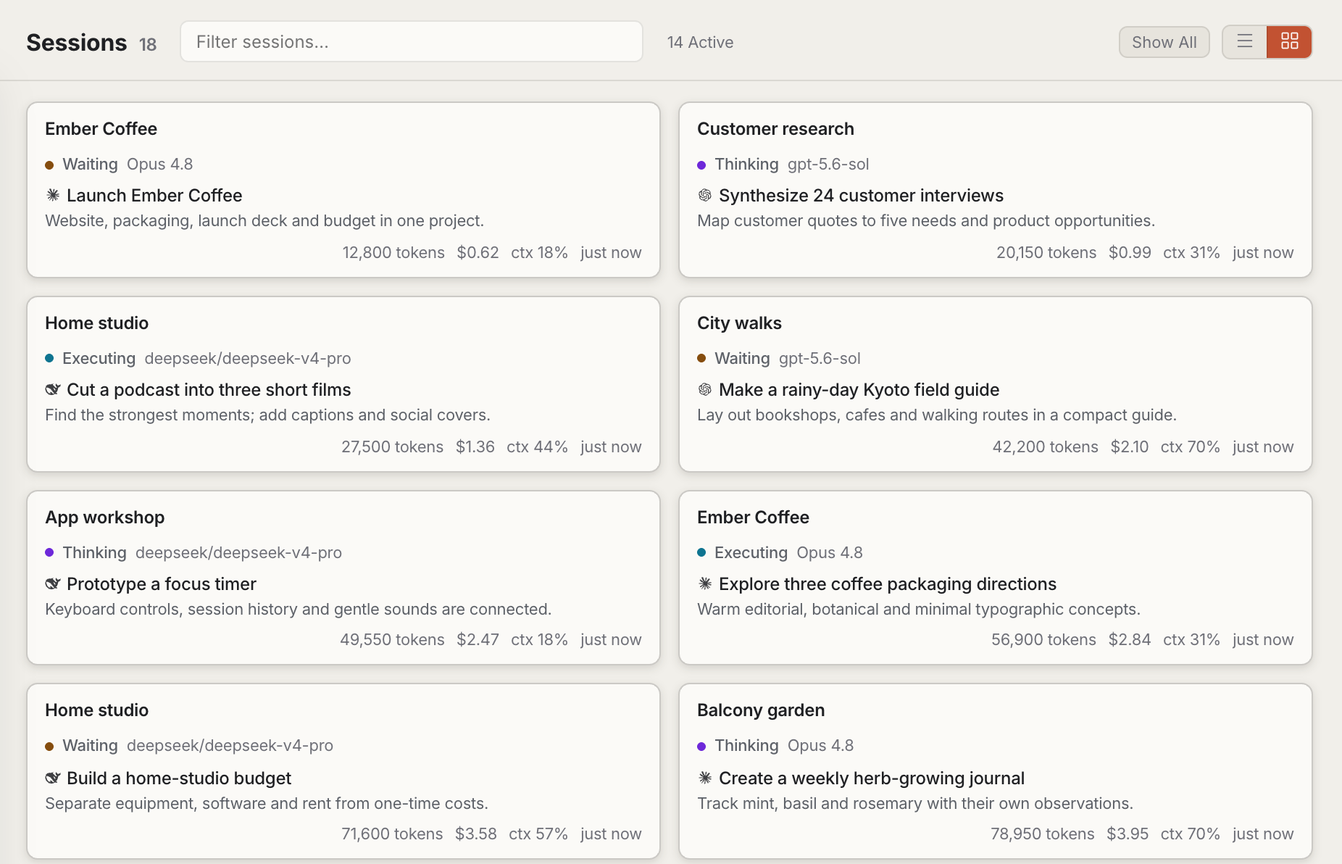
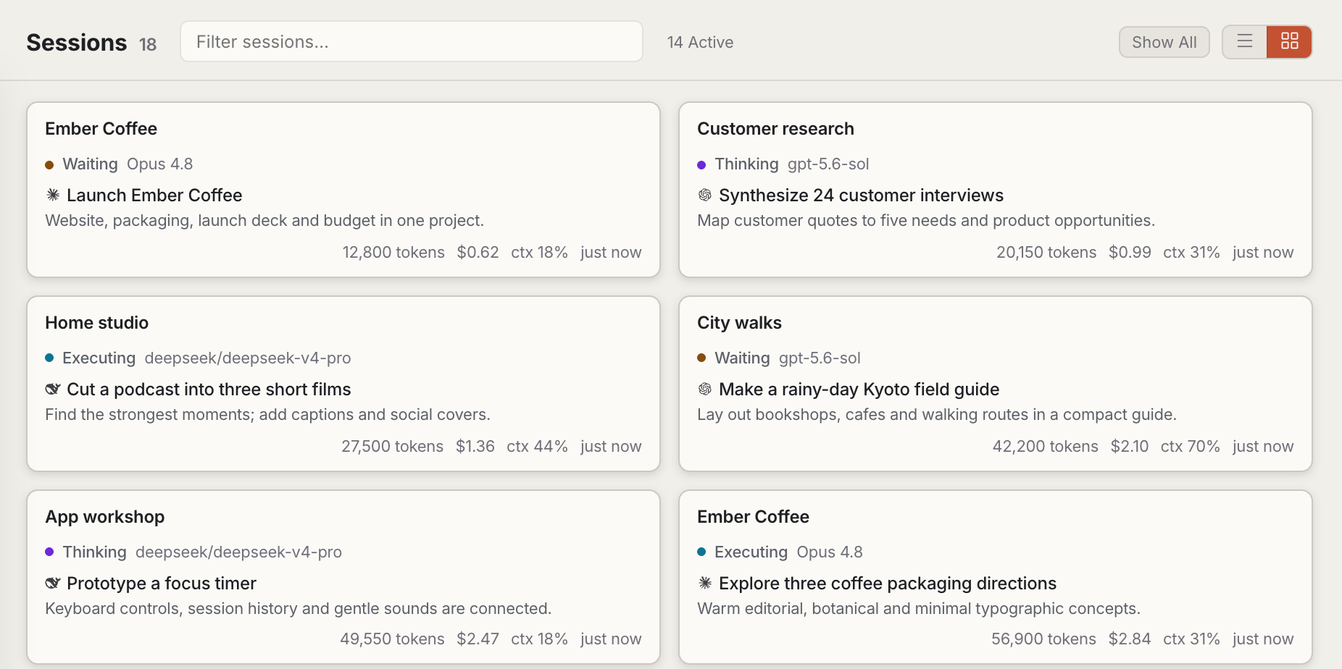
site: 多个 AI 协作区块嵌入实机会话看板截图 + 手机端可横向滚动看清；verify 与文档同步

Changed region(s): [[0.0, 0.0303, 0.9849, 1.0]]

diff --git a/docs/index.html b/docs/index.html
@@ -5,7 +5,7 @@
 <title>Claw Fleet — Your personal AI workspace</title><meta name="description" content="Give AI the work, review the decisions, and take the results. A personal workspace for Claude Code, Codex and dsh (DeepSeek Harness), with projects, deliverables and mobile access.">
 <meta name="color-scheme" content="light"><meta property="og:title" content="Claw Fleet — Your personal AI workspace"><meta property="og:description" content="Give AI the work, review the decisions, and take the results. A personal workspace for Claude Code, Codex and dsh (DeepSeek Harness), with projects, deliverables and mobile access."><meta property="og:type" content="website"><meta property="og:image" content="https://hoveychen.github.io/claw-fleet/screenshots/current/work-en.png"><meta name="twitter:card" content="summary_large_image">
 <link rel="alternate" hreflang="en" href="./index.html"><link rel="alternate" hreflang="zh-CN" href="./zh/index.html"><link rel="alternate" hreflang="x-default" href="./index.html">
-<script src="./locale.js?v=c25a591a310a"></script><link rel="icon" href="./icon.png"><link rel="stylesheet" href="./site.css?v=d9cd3329baa2"><script src="./site.js?v=a815573eef97" defer></script>
+<script src="./locale.js?v=c25a591a310a"></script><link rel="icon" href="./icon.png"><link rel="stylesheet" href="./site.css?v=efb872f94823"><script src="./site.js?v=a815573eef97" defer></script>
 </head>
 <body data-locale="en">
 <a class="skip" href="#main">Skip to content</a>
@@ -17,14 +17,14 @@
 <div id="panel-0" class="demo-panel">
 <div class="product-stage stage-0"><div class="product-window"><a class="screenshot-open" href="./screenshots/current/work-en.png?v=c096162589e0" target="_blank" aria-label="Open full-size screenshot"><img src="./screenshots/current/work-en.png?v=c096162589e0" width="1288" height="842" fetchpriority="high" alt="Start with a task. Or just a conversation."></a></div></div>
 <div class="panel-caption"><h3>Start with a task. Or just a conversation.</h3><p>Choose a project and an AI tool. Add the context, give it a direction, and come back to the same workspace to continue.</p></div></div><div id="panel-1" class="demo-panel">
-<div class="product-stage stage-1"><div class="product-window"><a class="screenshot-open" href="./screenshots/current/review-en.png?v=c853286714ae" target="_blank" aria-label="Open full-size screenshot"><img src="./screenshots/current/review-en.png?v=c853286714ae" width="2512" height="1152" loading="lazy" alt="The material belongs beside the decision."></a></div></div>
+<div class="product-stage stage-1"><div class="product-window"><a class="screenshot-open" href="./screenshots/current/review-en.png?v=e23a6caacb9f" target="_blank" aria-label="Open full-size screenshot"><img src="./screenshots/current/review-en.png?v=e23a6caacb9f" width="2512" height="1152" loading="lazy" alt="The material belongs beside the decision."></a></div></div>
 <div class="panel-caption"><h3>The material belongs beside the decision.</h3><p>Look at a proposal, image or document, then give the task its next direction. Questions and answers stay connected to the work.</p></div></div><div id="panel-2" class="demo-panel">
-<div class="product-stage stage-2"><div class="product-window"><a class="screenshot-open" href="./screenshots/current/results-en.png?v=933991cd240a" target="_blank" aria-label="Open full-size screenshot"><img src="./screenshots/current/results-en.png?v=933991cd240a" width="1852" height="1380" loading="lazy" alt="A result you can open, keep and share."></a></div></div>
+<div class="product-stage stage-2"><div class="product-window"><a class="screenshot-open" href="./screenshots/current/results-en.png?v=a017a2147ac9" target="_blank" aria-label="Open full-size screenshot"><img src="./screenshots/current/results-en.png?v=a017a2147ac9" width="1852" height="1380" loading="lazy" alt="A result you can open, keep and share."></a></div></div>
 <div class="panel-caption"><h3>A result you can open, keep and share.</h3><p>Browse deliverables by project. Preview documents and media, add a note, save a favorite, or export the file.</p></div></div><p class="mobile-sample">Current interface · Illustrative data</p>
 </section>
 <section class="overview wrap"><div class="section-heading"><h2>Keep the whole<br>piece of work together.</h2><p>The project, the conversation, the next decision, and what came out of it.</p></div><div class="feature-columns"><article><h3>Add a thought. Keep moving.</h3><p>Send a follow-up while a Fleet task runs, or continue the conversation once it stops. Your work stays with the project.</p></article><article><h3>Make an informed call.</h3><p>Review the material an agent brings back: a proposal, an image, a document. Choose a direction without reconstructing the whole conversation.</p></article><article><h3>Put the result to use.</h3><p>Open a deliverable, export it, and return to it later. Keep reusable conclusions in a versioned project wiki.</p></article></div></section>
-<section class="harness wrap" id="harness"><div class="section-heading"><h2>One piece of work.<br>More than one agent.</h2><p>Planning, implementation and review don’t have to run on the same tool. You decide who takes which step.</p></div><div class="relay"><div class="relay-lane"><div class="relay-node"><strong>Claude Code</strong><span>breaks down the plan</span></div><span class="relay-arrow" aria-hidden="true">→</span><div class="relay-node"><strong>dsh (DeepSeek Harness)</strong><span>works through it</span></div><span class="relay-arrow" aria-hidden="true">→</span><div class="relay-node"><strong>Codex</strong><span>reviews and wraps up</span></div></div><p class="relay-note">The split is only an example. Every task picks its own tool and model; name another tool’s model in a handoff and the next session runs there.</p></div><div class="feature-columns"><article><h3>A tool per task.</h3><p>Choose the agent tool when you brief the task, then pick a model from that tool’s own catalogue. When several are running, the session list shows which tool each task is on.</p></article><article><h3>A handoff carries more than a note.</h3><p>The workspace, the plan and its current step, and the notes the previous session left behind all travel to the next one. Whoever picks it up doesn’t rebuild the context.</p></article><article><h3>The record belongs to the work.</h3><p>Plans, the project wiki, deliverables and notes live in Fleet, not inside one tool. What Claude Code writes down, Codex and dsh can read back.</p></article></div></section>
-<section class="mobile-section wrap" id="mobile"><div class="mobile-art"><div class="phone"><img src="./screenshots/current/mobile-en.png?v=418e19f96ac1" width="860" height="1480" loading="lazy" alt="Fleet mobile review with a launch decision and two concrete options"></div><p>Current mobile interface · Illustrative data</p></div><div class="mobile-copy"><h2>Away from your desk.<br>Still part of the work.</h2><p>An idea doesn’t have to wait until you get home. Start a task from your phone, choose the project and device, and come back when a decision needs you.</p><ul><li>Type a brief, or edit a voice transcription.</li><li>See tasks and decisions from paired devices together.</li><li>Preview, download or share supported deliverables.</li></ul><a class="text-link" href="#getting-started">How to connect your phone <span aria-hidden="true">↗</span></a></div></section>
+<section class="harness wrap" id="harness"><div class="section-heading"><h2>One piece of work.<br>More than one agent.</h2><p>Planning, implementation and review don’t have to run on the same tool. You decide who takes which step.</p></div><div class="relay"><div class="relay-lane"><div class="relay-node"><strong>Claude Code</strong><span>breaks down the plan</span></div><span class="relay-arrow" aria-hidden="true">→</span><div class="relay-node"><strong>dsh (DeepSeek Harness)</strong><span>works through it</span></div><span class="relay-arrow" aria-hidden="true">→</span><div class="relay-node"><strong>Codex</strong><span>reviews and wraps up</span></div></div><p class="relay-note">The split is only an example. Every task picks its own tool and model; name another tool’s model in a handoff and the next session runs there.</p></div><div class="product-stage harness-stage"><div class="product-window"><a class="screenshot-open" href="./screenshots/current/agents-en.png?v=1adfc95fa004" target="_blank" aria-label="Open full-size screenshot"><img src="./screenshots/current/agents-en.png?v=1adfc95fa004" width="1852" height="924" loading="lazy" alt="Fleet session board with Claude Code, Codex and dsh tasks running side by side, each card labelled with its tool and model"></a></div></div><p class="harness-sample">Current interface · Illustrative data</p><div class="feature-columns"><article><h3>A tool per task.</h3><p>Choose the agent tool when you brief the task, then pick a model from that tool’s own catalogue. When several are running, the session list shows which tool each task is on.</p></article><article><h3>A handoff carries more than a note.</h3><p>The workspace, the plan and its current step, and the notes the previous session left behind all travel to the next one. Whoever picks it up doesn’t rebuild the context.</p></article><article><h3>The record belongs to the work.</h3><p>Plans, the project wiki, deliverables and notes live in Fleet, not inside one tool. What Claude Code writes down, Codex and dsh can read back.</p></article></div></section>
+<section class="mobile-section wrap" id="mobile"><div class="mobile-art"><div class="phone"><img src="./screenshots/current/mobile-en.png?v=366aec209c2e" width="860" height="1480" loading="lazy" alt="Fleet mobile review with a launch decision and two concrete options"></div><p>Current mobile interface · Illustrative data</p></div><div class="mobile-copy"><h2>Away from your desk.<br>Still part of the work.</h2><p>An idea doesn’t have to wait until you get home. Start a task from your phone, choose the project and device, and come back when a decision needs you.</p><ul><li>Type a brief, or edit a voice transcription.</li><li>See tasks and decisions from paired devices together.</li><li>Preview, download or share supported deliverables.</li></ul><a class="text-link" href="#getting-started">How to connect your phone <span aria-hidden="true">↗</span></a></div></section>
 <section class="work-depth wrap"><div class="section-heading"><h2>Give the next step<br>somewhere to go.</h2><p>For the work that takes more than a conversation.</p></div><div class="depth-list"><article><h3>Projects, not loose threads</h3><p>Keep tasks with their workspace. Reach project files, Git and a terminal when you need to look closer.</p></article><article><h3>Knowledge you can reuse</h3><p>Find a previous report, check its version and reference it in the next task.</p></article><article><h3>Work that can continue</h3><p>Use plans and handoff briefs for longer tasks. Schedule recurring work, or wait for a condition before continuing.</p></article></div><div class="source-strip"><p>Claude Code, Codex, and dsh (DeepSeek Harness)</p><span>Choose the tools and models you already use. dsh can connect to configured model providers. Each tool keeps its own account and access requirements.</span></div></section>
 <section class="capabilities wrap" id="capabilities"><div class="capabilities-heading"><div><h2>More of the workspace.</h2><p>54 capabilities, grouped by how you use them. Open a section when you need it.</p></div><button class="catalogue-toggle" data-expand="Expand all" data-collapse="Collapse all" aria-expanded="false">Expand all</button></div><div class="capability-list"><details class="capability-group"><summary><h3>Start and continue</h3><span>6 capabilities</span></summary><ul><li><h4>Three agent tools</h4><p>Use Claude Code, Codex and dsh (DeepSeek Harness) in one workspace.</p></li><li><h4>Model and reasoning controls</h4><p>Choose an available model, reasoning effort and permission mode.</p></li><li><h4>File and image context</h4><p>Attach source material and reference images to a brief.</p></li><li><h4>Follow-ups while work runs</h4><p>Add another instruction without waiting for the task to finish.</p></li><li><h4>Task tabs</h4><p>Move between tasks while keeping each conversation in place.</p></li><li><h4>Cross-session search</h4><p>Find previous work by title, plan or conversation text.</p></li></ul></details><details class="capability-group"><summary><h3>More than one agent</h3><span>6 capabilities</span></summary><ul><li><h4>A tool per task</h4><p>Pick Claude Code, Codex or dsh when you brief a task, then a model from that tool.</p></li><li><h4>Handoff across tools</h4><p>Name another tool&#x27;s model in a handoff and the next session runs there.</p></li><li><h4>The plan travels</h4><p>A handoff can carry the plan and the step it stopped on.</p></li><li><h4>Notes along the chain</h4><p>A successor session can read the notes its predecessors left behind.</p></li><li><h4>Shared wiki and deliverables</h4><p>A report one tool publishes is what the next tool reads back.</p></li><li><h4>Mixed sessions stay legible</h4><p>When several tools are running, the session list marks which one each task is on.</p></li></ul></details><details class="capability-group"><summary><h3>See the work as it happens</h3><span>6 capabilities</span></summary><ul><li><h4>List and gallery views</h4><p>See multiple sessions and their current states together.</p></li><li><h4>Live activity</h4><p>Distinguish thinking, tool execution, output and waiting for input.</p></li><li><h4>Full conversation timeline</h4><p>Inspect thinking, tool calls and code changes.</p></li><li><h4>Subagents and workflows</h4><p>Follow parent sessions, subagent work and workflow relationships.</p></li><li><h4>Interrupt and stop</h4><p>Take control of a stuck or no-longer-needed session.</p></li><li><h4>Session organization</h4><p>Rename, mark and filter sessions to keep useful work easy to find.</p></li></ul></details><details class="capability-group"><summary><h3>Keep a person in the loop</h3><span>6 capabilities</span></summary><ul><li><h4>One decision queue</h4><p>Handle questions, permissions and plan approvals together.</p></li><li><h4>Materials beside the decision</h4><p>Review documents, images and HTML previews alongside a decision.</p></li><li><h4>Options and structured forms</h4><p>Use single choice, multiple choice, free text and form fields.</p></li><li><h4>Pre-execution guard</h4><p>Review risk analysis before supported commands run.</p></li><li><h4>Editable plan approval</h4><p>Read and edit a proposed plan before approving it.</p></li><li><h4>Decision history</h4><p>Keep questions, choices and feedback for later review.</p></li></ul></details><details class="capability-group"><summary><h3>Keep longer work moving</h3><span>6 capabilities</span></summary><ul><li><h4>Durable plans and task trees</h4><p>Track phases and keep the plan with the work.</p></li><li><h4>Context handoffs</h4><p>Start a successor session with a handoff brief.</p></li><li><h4>Visible handoff chains</h4><p>Trace the sessions that carried a piece of work forward.</p></li><li><h4>One-time schedules</h4><p>Start a task at a specified time.</p></li><li><h4>Recurring tasks</h4><p>Repeat checks or routine work on a schedule.</p></li><li><h4>Condition-based runs</h4><p>Wait for an event and run the agent only when the condition is met.</p></li></ul></details><details class="capability-group"><summary><h3>Keep the output and the knowledge</h3><span>6 capabilities</span></summary><ul><li><h4>Multi-format previews</h4><p>Preview PDFs, Office files, images, video and web documents.</p></li><li><h4>Export deliverables</h4><p>Download finished files or hand them to someone else.</p></li><li><h4>Favorites, notes and project filters</h4><p>Organize deliverables without relying on filenames alone.</p></li><li><h4>Project wiki publishing</h4><p>Keep reusable HTML reports and Markdown documents.</p></li><li><h4>Wiki search and cross-links</h4><p>Search full text and reference conclusions across documents and sessions.</p></li><li><h4>Document version history</h4><p>Update a document while keeping earlier versions available.</p></li></ul></details><details class="capability-group"><summary><h3>Connect projects and devices</h3><span>6 capabilities</span></summary><ul><li><h4>File explorer</h4><p>Browse project files, images and source code.</p></li><li><h4>Git status and diffs</h4><p>Inspect changes and pull or push from the interface.</p></li><li><h4>Terminal and processes</h4><p>Run commands and inspect terminal output and process state.</p></li><li><h4>SSH workspaces</h4><p>Connect projects and agent environments on another machine.</p></li><li><h4>Browser access and self-hosting</h4><p>Run Fleet Web UI on your own always-on machine.</p></li><li><h4>QR pairing and multiple devices</h4><p>Pair a phone with desktop Fleet and switch between devices.</p></li></ul></details><details class="capability-group"><summary><h3>Understand usage and execution</h3><span>6 capabilities</span></summary><ul><li><h4>Account quota windows</h4><p>See supported account quotas and reset windows.</p></li><li><h4>Tokens and estimated cost</h4><p>Review per-session consumption and estimated totals.</p></li><li><h4>Live speed and spend trends</h4><p>Watch output speed and changes in spend.</p></li><li><h4>Daily work reports</h4><p>Summarize sessions, output and work that needs attention.</p></li><li><h4>Command auditing</h4><p>Review executed commands by risk category.</p></li><li><h4>Environment setup and diagnostics</h4><p>Check installation, versions, sign-in and tool availability.</p></li></ul></details><details class="capability-group"><summary><h3>Make it work your way</h3><span>6 capabilities</span></summary><ul><li><h4>Skill browsing and sync</h4><p>Inspect skills and synchronize them across supported tools.</p></li><li><h4>Plugins and marketplaces</h4><p>Browse, install and manage plugin sources.</p></li><li><h4>Memory rules and history</h4><p>Inspect project memory, revision history and rule scope.</p></li><li><h4>Start and review from a phone</h4><p>Start tasks, add instructions and answer decisions from a phone.</p></li><li><h4>Voice transcription and image input</h4><p>Turn speech into editable text and add images to a brief.</p></li><li><h4>Notifications, sounds and speech</h4><p>Choose how Fleet gets your attention.</p></li></ul></details></div></section>
 <section class="download-section" id="download"><div class="wrap"><div class="section-heading"><h2>Your next project<br>starts here.</h2><p>Install the desktop app, connect your AI tools, and give your next piece of work a home.</p></div><p class="version-note">Screens show the current development interface. Downloads below are the latest stable release; mobile layout may differ.</p><div class="download-source"><label for="download-source">Download source</label><select id="download-source"><option value="github">GitHub Releases</option></select><p id="source-note" data-ready="Version {version} · China mirror available. GitHub is also available below." data-china="China mirror">GitHub downloads are available now. A China mirror will appear here when it is enabled.</p></div><div class="downloads"><div class="download-row"><div class="platform"><img src="./icon-apple.svg" width="28" height="28" alt=""><h3>macOS</h3></div><div class="architecture"><strong>Apple Silicon & Intel</strong><span>Universal installer · .pkg</span></div><div class="download-actions"><div class="download-link"><a class="button" data-asset="claw-fleet-macos.pkg" href="https://github.com/hoveychen/claw-fleet/releases/latest/download/claw-fleet-macos.pkg">macOS<span aria-hidden="true">↓</span></a><a class="fallback" href="https://github.com/hoveychen/claw-fleet/releases/latest/download/claw-fleet-macos.pkg" hidden>GitHub alternative</a></div></div></div><div class="download-row"><div class="platform"><img src="./icon-windows.svg" width="28" height="28" alt=""><h3>Windows</h3></div><div class="architecture"><strong>x64</strong><span>Desktop installer · .exe</span></div><div class="download-actions"><div class="download-link"><a class="button" data-asset="claw-fleet-windows-x64-setup.exe" href="https://github.com/hoveychen/claw-fleet/releases/latest/download/claw-fleet-windows-x64-setup.exe">Windows<span aria-hidden="true">↓</span></a><a class="fallback" href="https://github.com/hoveychen/claw-fleet/releases/latest/download/claw-fleet-windows-x64-setup.exe" hidden>GitHub alternative</a></div></div></div><div class="download-row"><div class="platform"><img src="./icon-linux.svg" width="28" height="28" alt=""><h3>Linux</h3></div><div class="architecture"><strong>x64 / ARM64</strong><span>Run the workspace in your browser</span></div><div class="download-actions"><div class="download-link"><a class="button" data-asset="fleet-linux-x64" href="https://github.com/hoveychen/claw-fleet/releases/latest/download/fleet-linux-x64">x64<span aria-hidden="true">↓</span></a><a class="fallback" href="https://github.com/hoveychen/claw-fleet/releases/latest/download/fleet-linux-x64" hidden>GitHub alternative</a></div><div class="download-link"><a class="button" data-asset="fleet-linux-arm64" href="https://github.com/hoveychen/claw-fleet/releases/latest/download/fleet-linux-arm64">ARM64<span aria-hidden="true">↓</span></a><a class="fallback" href="https://github.com/hoveychen/claw-fleet/releases/latest/download/fleet-linux-arm64" hidden>GitHub alternative</a></div></div></div></div><a class="text-link release-link" href="https://github.com/hoveychen/claw-fleet/releases">Release notes & all downloads <span aria-hidden="true">↗</span></a><details class="linux-help"><summary>On Linux, download the binary for your processor, then run:<span aria-hidden="true">+</span></summary><pre><code>chmod +x fleet-linux-x64

diff --git a/docs/zh/index.html b/docs/zh/index.html
@@ -5,7 +5,7 @@
 <title>Claw Fleet — 你的个人 AI 工作台</title><meta name="description" content="交代任务，随时接手，带走成果。把 Claude Code、Codex 和 dsh（DeepSeek Harness）带进同一个工作台，按项目推进工作、看材料做决定，用手机继续参与。">
 <meta name="color-scheme" content="light"><meta property="og:title" content="Claw Fleet — 你的个人 AI 工作台"><meta property="og:description" content="交代任务，随时接手，带走成果。把 Claude Code、Codex 和 dsh（DeepSeek Harness）带进同一个工作台，按项目推进工作、看材料做决定，用手机继续参与。"><meta property="og:type" content="website"><meta property="og:image" content="https://hoveychen.github.io/claw-fleet/screenshots/current/work-zh.png"><meta name="twitter:card" content="summary_large_image">
 <link rel="alternate" hreflang="en" href="../index.html"><link rel="alternate" hreflang="zh-CN" href="../zh/index.html"><link rel="alternate" hreflang="x-default" href="../index.html">
-<script src="../locale.js?v=c25a591a310a"></script><link rel="icon" href="../icon.png"><link rel="stylesheet" href="../site.css?v=d9cd3329baa2"><script src="../site.js?v=a815573eef97" defer></script>
+<script src="../locale.js?v=c25a591a310a"></script><link rel="icon" href="../icon.png"><link rel="stylesheet" href="../site.css?v=efb872f94823"><script src="../site.js?v=a815573eef97" defer></script>
 </head>
 <body data-locale="zh">
 <a class="skip" href="#main">跳至正文</a>
@@ -17,13 +17,13 @@
 <div id="panel-0" class="demo-panel">
 <div class="product-stage stage-0"><div class="product-window"><a class="screenshot-open" href="../screenshots/current/work-zh.png?v=5683e4315b56" target="_blank" aria-label="查看完整截图"><img src="../screenshots/current/work-zh.png?v=5683e4315b56" width="1288" height="816" fetchpriority="high" alt="从一件事开始，也可以先聊一聊。"></a></div></div>
 <div class="panel-caption"><h3>从一件事开始，也可以先聊一聊。</h3><p>选好项目和 AI 工具，附上资料，说清要做什么。后面想到的补充和追问，都留在同一个工作区里。</p></div></div><div id="panel-1" class="demo-panel">
-<div class="product-stage stage-1"><div class="product-window"><a class="screenshot-open" href="../screenshots/current/review-zh.png?v=352657e7093f" target="_blank" aria-label="查看完整截图"><img src="../screenshots/current/review-zh.png?v=352657e7093f" width="2200" height="1152" loading="lazy" alt="决定怎么做，先把材料放到眼前。"></a></div></div>
+<div class="product-stage stage-1"><div class="product-window"><a class="screenshot-open" href="../screenshots/current/review-zh.png?v=9cf4dfb0d829" target="_blank" aria-label="查看完整截图"><img src="../screenshots/current/review-zh.png?v=9cf4dfb0d829" width="2200" height="1152" loading="lazy" alt="决定怎么做，先把材料放到眼前。"></a></div></div>
 <div class="panel-caption"><h3>决定怎么做，先把材料放到眼前。</h3><p>一份方案、一张图、一段文档——先看清楚，再定下一步怎么走。每个问题都连着它出自的那件工作。</p></div></div><div id="panel-2" class="demo-panel">
-<div class="product-stage stage-2"><div class="product-window"><a class="screenshot-open" href="../screenshots/current/results-zh.png?v=b85fc852d706" target="_blank" aria-label="查看完整截图"><img src="../screenshots/current/results-zh.png?v=b85fc852d706" width="1852" height="1380" loading="lazy" alt="做出的成果，随时能打开、收好、带走。"></a></div></div>
+<div class="product-stage stage-2"><div class="product-window"><a class="screenshot-open" href="../screenshots/current/results-zh.png?v=2c1aaabbb216" target="_blank" aria-label="查看完整截图"><img src="../screenshots/current/results-zh.png?v=2c1aaabbb216" width="1852" height="1380" loading="lazy" alt="做出的成果，随时能打开、收好、带走。"></a></div></div>
 <div class="panel-caption"><h3>做出的成果，随时能打开、收好、带走。</h3><p>按项目翻产出，文档和音视频直接预览。记一条备注、收藏起来，或者把文件导出带走。</p></div></div><p class="mobile-sample">当前界面 · 示例数据</p>
 </section>
 <section class="overview wrap"><div class="section-heading"><h2>把一件工作的<br>前后，都接起来。</h2><p>项目、对话、需要决定的事，还有最后留下的成果。</p></div><div class="feature-columns"><article><h3>想到补充，随时加一句。</h3><p>任务还在跑，就能把想到的补充排进队列；跑完停下，也能接着往下聊。这件事的来龙去脉，始终留在它的项目里。</p></article><article><h3>看明白了，再做决定。</h3><p>AI 带回的方案、图片和文档，就摆在要你拍板的那张卡片上。不用先翻半天记录，才知道该怎么回。</p></article><article><h3>有了成果，就用起来。</h3><p>产出可以直接打开、导出，过些天还翻得回来。值得复用的结论，收进带版本记录的项目知识库。</p></article></div></section>
-<section class="harness wrap" id="harness"><div class="section-heading"><h2>一件事，<br>可以换人接着做。</h2><p>规划、实现、收尾，不必都交给同一个 AI 工具。哪一步换谁来做，由你决定。</p></div><div class="relay"><div class="relay-lane"><div class="relay-node"><strong>Claude Code</strong><span>拆计划</span></div><span class="relay-arrow" aria-hidden="true">→</span><div class="relay-node"><strong>dsh · DeepSeek Harness</strong><span>照着计划实现</span></div><span class="relay-arrow" aria-hidden="true">→</span><div class="relay-node"><strong>Codex</strong><span>复核与收尾</span></div></div><p class="relay-note">分工只是举例。每个任务都单独选工具和模型；接力时指定另一家的模型，下一棒就换到那家继续。</p></div><div class="feature-columns"><article><h3>每个任务，各选各的工具。</h3><p>交代任务时先挑 AI 工具，再从它自己的模型列表里选模型。几个工具同时在跑时，会话列表会标出每个任务用的是哪一个。</p></article><article><h3>交接过去的，不只是一句话。</h3><p>换手时，工作区、计划进度、当前这一步和上一棒留下的笔记都跟着传过去。接手的一方不用从零重建来龙去脉。</p></article><article><h3>记录不属于某一个工具。</h3><p>计划、项目知识库、产出和笔记都存放在 Fleet 这一层。Claude Code 写下的结论，Codex 和 dsh 也读得回来。</p></article></div></section>
+<section class="harness wrap" id="harness"><div class="section-heading"><h2>一件事，<br>可以换人接着做。</h2><p>规划、实现、收尾，不必都交给同一个 AI 工具。哪一步换谁来做，由你决定。</p></div><div class="relay"><div class="relay-lane"><div class="relay-node"><strong>Claude Code</strong><span>拆计划</span></div><span class="relay-arrow" aria-hidden="true">→</span><div class="relay-node"><strong>dsh · DeepSeek Harness</strong><span>照着计划实现</span></div><span class="relay-arrow" aria-hidden="true">→</span><div class="relay-node"><strong>Codex</strong><span>复核与收尾</span></div></div><p class="relay-note">分工只是举例。每个任务都单独选工具和模型；接力时指定另一家的模型，下一棒就换到那家继续。</p></div><div class="product-stage harness-stage"><div class="product-window"><a class="screenshot-open" href="../screenshots/current/agents-zh.png?v=cb7f29913ce8" target="_blank" aria-label="查看完整截图"><img src="../screenshots/current/agents-zh.png?v=cb7f29913ce8" width="1852" height="960" loading="lazy" alt="Fleet 会话看板：Claude Code、Codex 和 dsh 的任务同时在跑，每张卡片标出自己用的工具与模型"></a></div></div><p class="harness-sample">当前界面 · 示例数据</p><div class="feature-columns"><article><h3>每个任务，各选各的工具。</h3><p>交代任务时先挑 AI 工具，再从它自己的模型列表里选模型。几个工具同时在跑时，会话列表会标出每个任务用的是哪一个。</p></article><article><h3>交接过去的，不只是一句话。</h3><p>换手时，工作区、计划进度、当前这一步和上一棒留下的笔记都跟着传过去。接手的一方不用从零重建来龙去脉。</p></article><article><h3>记录不属于某一个工具。</h3><p>计划、项目知识库、产出和笔记都存放在 Fleet 这一层。Claude Code 写下的结论，Codex 和 dsh 也读得回来。</p></article></div></section>
 <section class="mobile-section wrap" id="mobile"><div class="mobile-art"><div class="phone"><img src="../screenshots/current/mobile-zh.png?v=940c950d226a" width="860" height="1480" loading="lazy" alt="Fleet 手机端审阅发布方案，展示决策背景与两个具体选项"></div><p>当前手机界面 · 示例数据</p></div><div class="mobile-copy"><h2>人离开电脑。<br>依然接得上。</h2><p>想法冒出来时，不用等回到电脑前。用手机就能派活，选好项目和跑任务的那台机器；轮到你拿主意时，再回来接手。</p><ul><li>打字交代；也可以说一段，转成文字后再改。</li><li>几台已配对设备上的任务和待决定，汇在一处看。</li><li>支持的产出可以预览、下载或分享出去。</li></ul><a class="text-link" href="#getting-started">了解手机连接步骤 <span aria-hidden="true">↗</span></a></div></section>
 <section class="work-depth wrap"><div class="section-heading"><h2>下一步工作，<br>也有地方安放。</h2><p>事情多起来、做得久一点，工作台也跟得上。</p></div><div class="depth-list"><article><h3>项目里的事，放回项目里。</h3><p>任务按工作区归位。想看得更细时，文件树、Git 和终端就在旁边。</p></article><article><h3>做过的功课，下次接着用。</h3><p>翻回之前的报告，对比版本，把已有的结论直接引到下一件任务里。</p></article><article><h3>把后面的工作也安排好。</h3><p>长任务拆成计划推进，写份交接说明就能换人接着做；重复的活排进日程，也可以等某个条件满足了再自动继续。</p></article></div><div class="source-strip"><p>Claude Code、Codex，还有 dsh（DeepSeek Harness）</p><span>用你已经在用的工具和模型。dsh 可以接你自己配好的模型提供商；三个工具各用各的账号和额度。</span></div></section>
 <section class="capabilities wrap" id="capabilities"><div class="capabilities-heading"><div><h2>工作台的每一面。</h2><p>54 项能力，按使用场景整理。需要时展开，不必一次学完。</p></div><button class="catalogue-toggle" data-expand="展开全部" data-collapse="收起全部" aria-expanded="false">展开全部</button></div><div class="capability-list"><details class="capability-group"><summary><h3>开始与继续工作</h3><span>6 项能力</span></summary><ul><li><h4>三种 Agent 入口</h4><p>在同一工作台使用 Claude Code、Codex 和 dsh（DeepSeek Harness）。</p></li><li><h4>模型与推理强度</h4><p>按任务选择可用模型、推理强度和权限模式。</p></li><li><h4>文件与图片上下文</h4><p>把资料和参考图片附在任务里。</p></li><li><h4>运行中追加要求</h4><p>不必等任务结束，再补充一条要求。</p></li><li><h4>多标签工作区</h4><p>在多个任务间切换，保留各自的上下文。</p></li><li><h4>跨会话搜索</h4><p>按标题、计划与会话全文找回以前的工作。</p></li></ul></details><details class="capability-group"><summary><h3>多个 AI 工具协同</h3><span>6 项能力</span></summary><ul><li><h4>每个任务各选工具</h4><p>交代任务时选定 Claude Code、Codex 或 dsh，再挑它自己的模型。</p></li><li><h4>跨工具接力</h4><p>交接时指定另一个工具的模型，下一棒就在那个工具里继续。</p></li><li><h4>计划跟着交接走</h4><p>交接可以带上计划，以及停在哪一步。</p></li><li><h4>笔记沿接力链可读</h4><p>后一棒读得到前几棒留下的笔记。</p></li><li><h4>共用知识库与产出</h4><p>一个工具发布的报告和产出，另一个工具读得回来。</p></li><li><h4>混跑时看得清</h4><p>几个工具同时在跑时，会话列表标出每个任务用的是哪一个。</p></li></ul></details><details class="capability-group"><summary><h3>看清 Agent 在做什么</h3><span>6 项能力</span></summary><ul><li><h4>列表与画廊视图</h4><p>同时查看多个会话及其当前状态。</p></li><li><h4>实时执行状态</h4><p>区分思考、执行、输出与等待输入。</p></li><li><h4>完整会话时间线</h4><p>展开思考、工具调用和代码差异。</p></li><li><h4>子 Agent 与工作流</h4><p>查看父子会话、分工与工作流关系。</p></li><li><h4>中断与停止</h4><p>直接接管卡住或不再需要的会话。</p></li><li><h4>标记与会话整理</h4><p>重命名、标记和筛选，留下值得回看的工作。</p></li></ul></details><details class="capability-group"><summary><h3>人来做决定</h3><span>6 项能力</span></summary><ul><li><h4>统一决策队列</h4><p>问题、权限与计划审批集中处理。</p></li><li><h4>材料与决定并排</h4><p>直接审阅文档、图片与 HTML 预览。</p></li><li><h4>选项与结构化表单</h4><p>支持单选、多选、自由回答和表单字段。</p></li><li><h4>执行前风险拦截</h4><p>在受支持的命令执行前查看风险分析。</p></li><li><h4>可编辑的计划审批</h4><p>先看计划，必要时修改，再批准执行。</p></li><li><h4>完整决策记录</h4><p>保留问题、选择和反馈，回看来龙去脉。</p></li></ul></details><details class="capability-group"><summary><h3>让长任务接着做</h3><span>6 项能力</span></summary><ul><li><h4>持久计划与任务树</h4><p>按阶段追踪进度，计划随任务保留。</p></li><li><h4>上下文交接</h4><p>带着交接简报启动后继会话。</p></li><li><h4>可追溯的接力链</h4><p>回看一项工作经过了哪些会话。</p></li><li><h4>一次性定时任务</h4><p>让任务在指定时间启动。</p></li><li><h4>周期性任务</h4><p>按计划重复执行检查或整理工作。</p></li><li><h4>条件触发与便宜探测</h4><p>等待外部事件，满足条件后再唤起 Agent。</p></li></ul></details><details class="capability-group"><summary><h3>留下成果与知识</h3><span>6 项能力</span></summary><ul><li><h4>多格式文件预览</h4><p>查看 PDF、Office、图片、视频及网页文档。</p></li><li><h4>导出与取走文件</h4><p>把完成的文件下载或交给其他人。</p></li><li><h4>收藏、备注与项目筛选</h4><p>按用途整理交付物，不用靠文件名猜。</p></li><li><h4>发布到项目知识库</h4><p>保存可复用的 HTML 报告和 Markdown 文档。</p></li><li><h4>知识库搜索与互链</h4><p>全文搜索，并在文档和会话里引用结论。</p></li><li><h4>文档版本历史</h4><p>更新同一篇文档，保留旧版本可回看。</p></li></ul></details><details class="capability-group"><summary><h3>连接项目与设备</h3><span>6 项能力</span></summary><ul><li><h4>文件树与内容预览</h4><p>浏览项目文件、图片与代码内容。</p></li><li><h4>Git 状态与差异</h4><p>查看改动，并在界面中执行拉取与推送。</p></li><li><h4>内置终端与进程</h4><p>运行命令，查看终端输出和进程状态。</p></li><li><h4>SSH 远端工作区</h4><p>连接其他机器上的项目与 Agent 环境。</p></li><li><h4>浏览器与自托管</h4><p>在自己的常在线机器上运行 Fleet Web UI。</p></li><li><h4>扫码配对与多设备</h4><p>手机连接桌面，在多台设备之间切换。</p></li></ul></details><details class="capability-group"><summary><h3>观察用量与运行质量</h3><span>6 项能力</span></summary><ul><li><h4>账号额度窗口</h4><p>查看受支持账号的额度与重置时间。</p></li><li><h4>Token 与费用估算</h4><p>查看会话消耗与汇总费用。</p></li><li><h4>实时速度与花费趋势</h4><p>留意输出速度及费用增长。</p></li><li><h4>每日工作报告</h4><p>汇总会话、产出和需要关注的工作。</p></li><li><h4>命令审计</h4><p>按风险类别回看执行过的命令。</p></li><li><h4>环境安装与诊断</h4><p>检查安装、版本、登录与工具可用性。</p></li></ul></details><details class="capability-group"><summary><h3>按自己的习惯使用</h3><span>6 项能力</span></summary><ul><li><h4>技能浏览与同步</h4><p>查看技能内容，并同步到支持的工具。</p></li><li><h4>插件与市场管理</h4><p>浏览、安装和管理插件来源。</p></li><li><h4>记忆规则与历史</h4><p>查看项目记忆、历史版本与规则归属。</p></li><li><h4>手机发起与接手</h4><p>在手机上发任务、补充要求和回答决定。</p></li><li><h4>语音转写与图片输入</h4><p>把语音转成可编辑文字，配合图片交代任务。</p></li><li><h4>通知、提示音与播报</h4><p>按自己的节奏选择提醒方式。</p></li></ul></details></div></section>

diff --git a/docs/site.css b/docs/site.css
@@ -1249,3 +1249,39 @@ html[lang="zh-CN"] .hero-copy .intro {
     font-size: 13px;
   }
 }
+.harness-stage {
+  background: #e8eee8;
+  padding: 26px 32px;
+  margin-top: 34px;
+}
+.harness-stage .product-window {
+  border-radius: 12px;
+  max-height: none;
+}
+.product-stage.harness-stage .product-window img {
+  width: 100%;
+  max-width: 100%;
+  margin-left: 0;
+}
+.harness-sample {
+  margin-top: 14px;
+  font-size: 12px;
+  color: var(--muted);
+}
+@media (max-width: 740px) {
+  .harness-stage {
+    margin-top: 24px;
+    padding: 14px;
+  }
+  /* At phone width the board's per-card model names are the point and they go
+     unreadable when the shot is squeezed to 350px. Keep it legible and let the
+     stage scroll sideways instead. */
+  .harness-stage .product-window {
+    overflow-x: auto;
+    -webkit-overflow-scrolling: touch;
+  }
+  .product-stage.harness-stage .product-window img {
+    width: 640px;
+    max-width: none;
+  }
+}

diff --git a/scripts/site/build.py b/scripts/site/build.py
@@ -48,6 +48,12 @@ def build(lang, c):
     def dimensions(name):
         return struct.unpack('>II', (ROOT / 'docs/screenshots/current' / name).read_bytes()[16:24])
     mobile_w, mobile_h = dimensions(f'mobile-{lang}.png')
+    agents_w, agents_h = dimensions(f'agents-{lang}.png')
+    agents_src = asset(f'screenshots/current/agents-{lang}.png')
+    harness_shot = (f'<div class="product-stage harness-stage"><div class="product-window">'
+        f'<a class="screenshot-open" href="{agents_src}" target="_blank" aria-label="' + ('查看完整截图' if lang=='zh' else 'Open full-size screenshot') + '">'
+        f'<img src="{agents_src}" width="{agents_w}" height="{agents_h}" loading="lazy" alt="{c["agentsAlt"]}"></a>'
+        f'</div></div><p class="harness-sample">{c["sample"]}</p>')
     panels=''
     for i,shot in enumerate(shots):
         w,h=dimensions(shot)
@@ -73,7 +79,7 @@ def build(lang, c):
 {panels}<p class="mobile-sample">{c['sample']}</p>
 </section>
 <section class="overview wrap"><div class="section-heading"><h2>{c['sectionHeading']}</h2><p>{c['sectionText']}</p></div><div class="feature-columns">{features}</div></section>
-<section class="harness wrap" id="harness"><div class="section-heading"><h2>{c['harnessHeading']}</h2><p>{c['harnessCopy']}</p></div><div class="relay"><div class="relay-lane">{relay}</div><p class="relay-note">{c['relayNote']}</p></div><div class="feature-columns">{harness_points}</div></section>
+<section class="harness wrap" id="harness"><div class="section-heading"><h2>{c['harnessHeading']}</h2><p>{c['harnessCopy']}</p></div><div class="relay"><div class="relay-lane">{relay}</div><p class="relay-note">{c['relayNote']}</p></div>{harness_shot}<div class="feature-columns">{harness_points}</div></section>
 <section class="mobile-section wrap" id="mobile"><div class="mobile-art"><div class="phone"><img src="{asset(f'screenshots/current/mobile-{lang}.png')}" width="{mobile_w}" height="{mobile_h}" loading="lazy" alt="{c['mobileAlt']}"></div><p>{c['mobileCaption']}</p></div><div class="mobile-copy"><h2>{c['mobileHeading']}</h2><p>{c['mobileCopy']}</p><ul>{''.join(f'<li>{p}</li>' for p in c['mobilePoints'])}</ul><a class="text-link" href="#getting-started">{c['mobileCta']} <span aria-hidden="true">↗</span></a></div></section>
 <section class="work-depth wrap"><div class="section-heading"><h2>{c['moreHeading']}</h2><p>{c['moreCopy']}</p></div><div class="depth-list">{more}</div><div class="source-strip"><p>{c['sourceNames']}</p><span>{c['sourceBlurb']}</span></div></section>
 {capabilities}

diff --git a/docs/china-distribution.md b/docs/china-distribution.md
@@ -68,9 +68,17 @@ python3 scripts/site/distribute.py \
 
 ### 更新官网双语截图
 
-示例数据在 `scripts/site/fixtures/scenes.json`，两种语言使用独立文案。`generate.py` 生成真实 PDF、XLSX、PPTX、DOCX、HTML 与 Markdown 文件，`render-assets.mjs` 渲染包装 PNG 和 MP4，并记录实际文件大小；`capture.mjs` 使用真实桌面和手机组件生成八张截图，取景在生成阶段完成，官网不再二次偏移裁剪。
+示例数据在 `scripts/site/fixtures/scenes.json`，两种语言使用独立文案。`generate.py` 生成真实 PDF、XLSX、PPTX、DOCX、HTML 与 Markdown 文件，`render-assets.mjs` 渲染包装 PNG 和 MP4，并记录实际文件大小；`capture.mjs` 使用真实桌面和手机组件生成十张截图（每种语言 5 张：work / review / results / agents / mobile），取景在生成阶段完成，官网不再二次偏移裁剪。
+其中 `agents` 是首页「多个 AI 协作」区块用的会话看板，必须同屏出现 claude-code / codex / dsh 三种来源——`capture.mjs` 会断言三个模型名都在前 8 张卡片里，示例数据在 `claw-fleet-desktop/app/mock/website.ts`。
 
-分别启动 `claw-fleet-desktop` 的 Vite（端口 5299）与 `mobile-web` 的 Vite（端口 5288），从仓库根执行：
+两个 Vite 都不需要 Tauri 后端（`?mock` 是纯浏览器的），但仓库里没有固定这两个端口，必须在命令行覆盖：
+
+```sh
+(cd claw-fleet-desktop && pnpm dev --port 5299 --strictPort)   # 终端 A
+(cd mobile-web && pnpm dev --port 5288 --strictPort)           # 终端 B
+```
+
+两个服务起好后，从仓库根执行：
 
 ```sh
 python3 -m venv /tmp/fleet-site-fixtures
